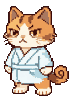
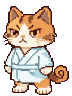
fix(art): 九只看不出两脚的客人迈步时真抬一格，不再贴着地皮滑
cat3/foxe/frog/hipp/octo/peng/slth/swan/turt 的脚在底行连成一团，
foot_band 认不出分界，走的是「下摆左右摆两格」那条分支——两帧一般高，
引擎的 bob 又只往下沉，于是这九只走路像在冰上蹭。现在抬脚给 stepL、
落脚留给 stepR，一步一落才有上下节拍。

顺带把 soak 提示词里那句水线的说法钉死：改成「绕身子几段浅蓝短弧 +
整幅只许浅蓝这一种蓝」，配上一轮重抽山羊时踩到的两个坑。

Changed region(s): [[0.1667, 0.8125, 0.9444, 1.0]]

diff --git a/godot/tools/sprite_from_ai.py b/godot/tools/sprite_from_ai.py
@@ -228,9 +228,11 @@ def derive_stride(walk: Image.Image, outdir: str, species: str) -> list:
     band = foot_band(walk)
     made = []
     if band is None:
-        # 脚连成一片：改成摆下摆，至少迈步这件事还看得出来
-        for pose, dx in (("stepL", 2), ("stepR", -2)):
-            img = move_band(walk, walk.height - 16, dx, 0)
+        # 脚连成一片：改成摆下摆，至少迈步这件事还看得出来。
+        # 抬只抬 stepL 那一帧、stepR 按回地面——两帧一样高就是原地扭腰，
+        # 引擎的 bob 只往下沉不会往上，脚不离地便被看成贴着地皮滑
+        for pose, dx, dy in (("stepL", 2, -1), ("stepR", -2, 0)):
+            img = move_band(walk, walk.height - 16, dx, dy)
             dst = os.path.join(outdir, f"{species}_{pose}.png")
             img.save(dst)
             made.append(os.path.basename(dst))
@@ -456,10 +458,13 @@ POSE_CN = {
             "屁股压在一只方形坐垫上，双手自然搭在膝头，全身完整入画，不要侧身不要俯视",
             "唯一允许的道具是屁股下那只方形坐垫，坐垫面是橙褐色、中间一道深褐色束带，除此之外没有任何道具",
             "身穿浅蓝白色日式浴衣，腰间系同色腰带"),
+    # 水面那句原来写「一条浅蓝波纹细线」，山羊五张里两张把它连成横贯画面的黑线、
+    # 两张涂成成片水块；改成「绕身子几段短弧 + 只许这一种蓝」才治住
     "soak": ("正面朝向观众泡在热水里，只画水面以上的脑袋和光着的肩背，"
              "下半身整个没入水下不入画，{head}，"
-             "水面只是贴着胸口的一条浅蓝波纹细线，线以下保持纯白背景，"
-             "不要画成片的蓝色水块、不要画浴缸、不要画水花，"
+             "水面只是贴着胸口绕身子画几段浅蓝短弧，弧以下保持纯白背景；"
+             "这几段浅蓝不许连成横贯画面的长线，也不许涂成成片的水块，"
+             "整幅画里除了浅蓝这一种蓝不许出现别的颜色，不要画浴缸、不要画水花，"
              "双眼闭着，神情松弛享受，不要侧身不要俯视",
              "唯一允许的道具就是头顶那样东西，身上没有肥皂泡、没有其它任何道具",
              "光着上半身，不穿浴衣也不穿任何衣物，胸口的毛色与肚皮同色"),
